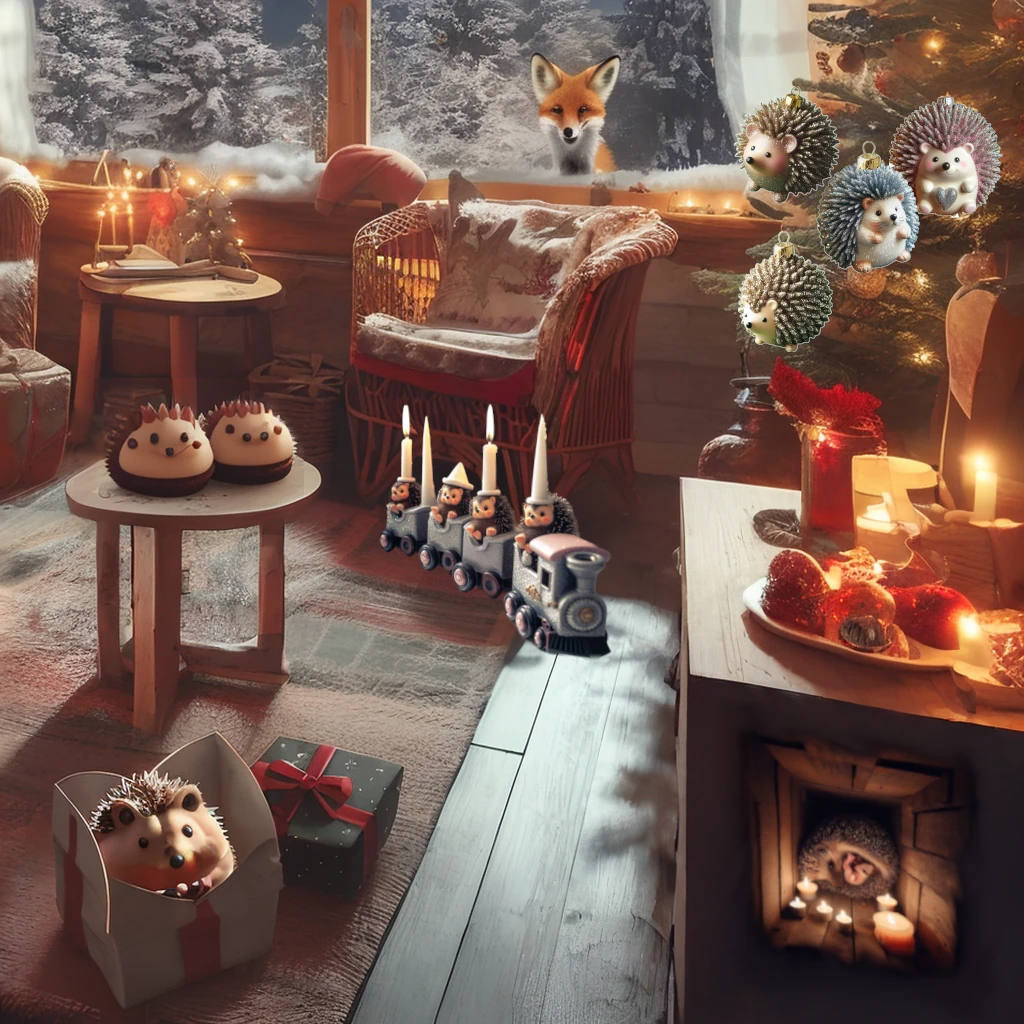
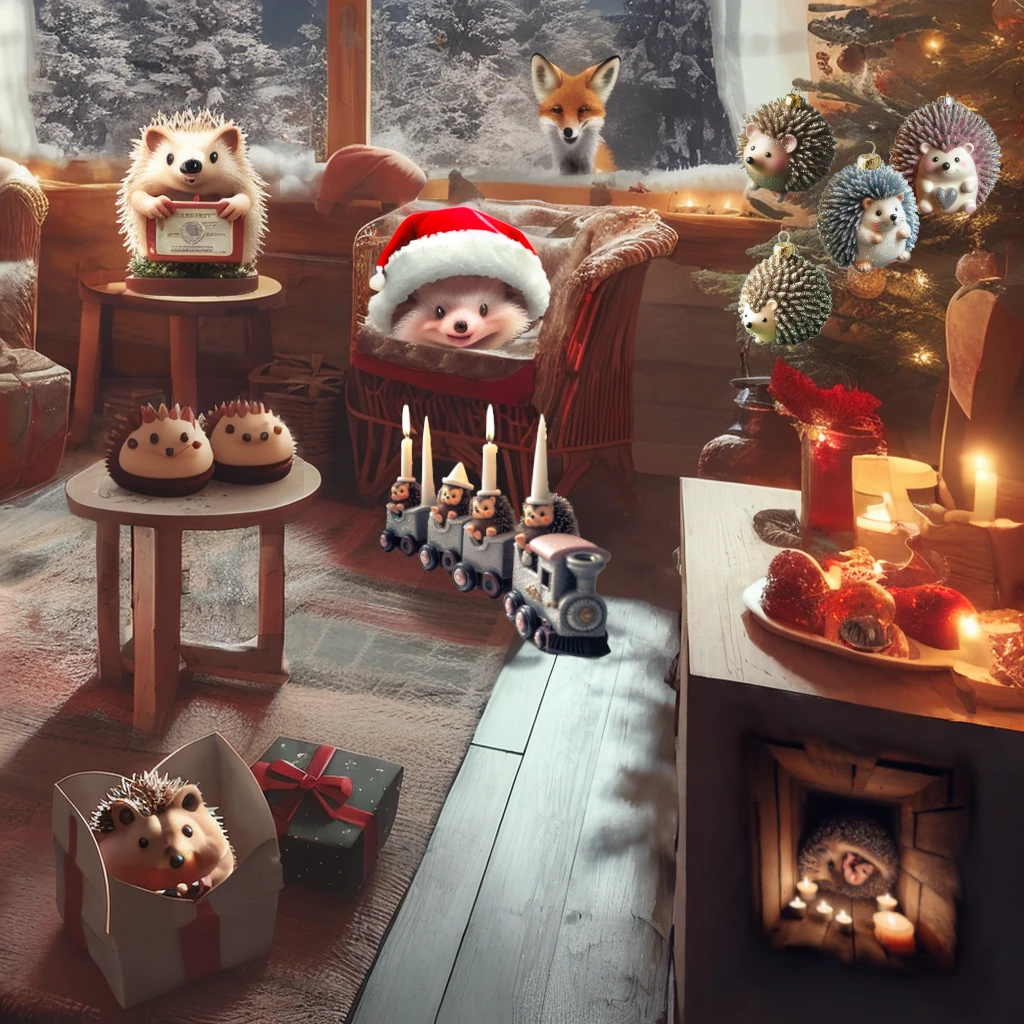
Door 14, 16 and 21

diff --git a/stylesXL.css b/stylesXL.css
@@ -64,23 +64,23 @@ body {
 }
 
 .calendar-overlay .topleft {
-  background: url(assets/xl/topleft.webp);
+  background: url(assets/xl/topleft.webp?v=06);
   top: 0px;
 }
 
 .calendar-overlay .topright {
-  background: url(assets/xl/topright.webp);
+  background: url(assets/xl/topright.webp?v=06);
   left: 1024px;
 }
 
 .calendar-overlay .bottomright {
-  background: url(assets/xl/bottomright.webp);
+  background: url(assets/xl/bottomright.webp?v=06);
   top: 1024px;
   left: 1024px
 }
 
 .calendar-overlay .bottomleft {
-  background: url(assets/xl/bottomleft.webp);
+  background: url(assets/xl/bottomleft.webp?v=06);
   top: 1024px;
   ;
 }
@@ -594,7 +594,11 @@ footer a {
 .calendar-grid .day-14 {
   top: calc(1024px + 40px);
   left: 780px;
+  .door {
+    background: url(assets/xl/14c.png);  
+  }
 }
+
 .calendar-grid .day-15 {
   left: calc(1024px + 676px);
   top: 304px;
@@ -610,10 +614,15 @@ footer a {
   height: 150px;
   width: 320px;
 
+  .door {
+    background: url(assets/xl/16c.png);  
+  }
+
   .door div {
     height: 150px;
     width: 320px;
   }
+
 }
 .calendar-grid .day-17 {
   top: 700px;
@@ -660,6 +669,9 @@ footer a {
 .calendar-grid .day-21 {
   left: 60px;
   top: 300px;
+  .door {
+    background: url(assets/xl/21c.png);
+  }
 }
 
 .calendar-grid .day-22 {

diff --git a/indexXL.html b/indexXL.html
@@ -15,7 +15,7 @@
   <meta name="description" content="A silly christmas calendar.">
   <link rel="icon" type="image/png" href="./assets/favicon-32x32.png" sizes="32x32" />
   <link rel="icon" type="image/png" href="./assets/favicon-16x16.png" sizes="16x16" />
-  <link rel="stylesheet" href="stylesXL.css"> 
+  <link rel="stylesheet" href="stylesXL.css?v=06"> 
 
   <script>
 
